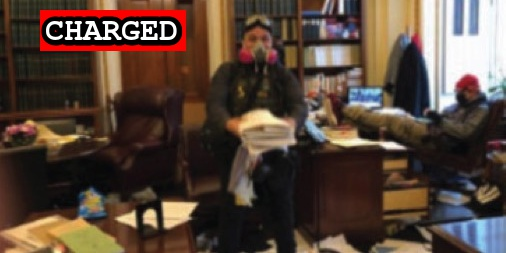
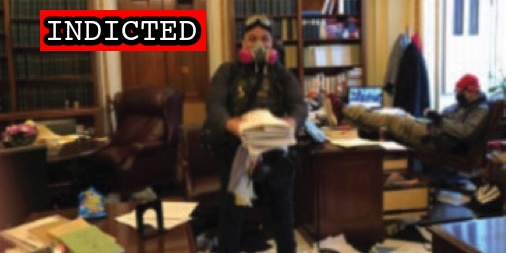
Latest import

Changed region(s): [[0.0593, 0.0277, 0.415, 0.2213]]

diff --git a/commands/suspect-import.ts b/commands/suspect-import.ts
@@ -103,6 +103,10 @@ const importGw = async (nameSet: Set<string>) => {
         nameText = "Zoyganeles, Athanasois";
       }
 
+      if (nameText.match(/Heneghan/)) {
+        nameText = "Heneghan, Jon";
+      }
+
       const [lastName, rest] = nameText
         .split(",")
         .map((chunk: string) =>
@@ -448,9 +452,6 @@ const linkType = (description: string, lastName?: string) => {
     case /Government's Motion to Modify Conditions of Release/.test(description):
       return "Government's Motion to Modify Conditions of Release";
 
-    case /Motion to Revoke Pretrial Release/.test(description):
-      return "Government's Motion to Revoke Pretrial guRelease";
-
     case /Detention Memo/.test(description):
     case /Government Detention Memorandum/.test(description):
     case /Memorandum in Support of Pretrial Detention/.test(description):
@@ -477,6 +478,8 @@ const linkType = (description: string, lastName?: string) => {
     case /Government Opposition to Motion for Conditional Release/.test(description):
     case /Government's Opposition to Defendant's Motion for Release/.test(description):
     case /Government Opposition to Defendant's Motion for Conditional Release/.test(description):
+    case /Government Opposition to Motion for Pretrial Release/.test(description):
+    case /Government Opposition to Defense Motion for Bail/.test(description):
       return "Government Opposition to Release";
 
     case /Opposition to Defendants Motion to Reconsider/.test(description):
@@ -530,6 +533,7 @@ const linkType = (description: string, lastName?: string) => {
     case /Defendant's Motion for Conditional Release Pending Trial/.test(description):
     case /Defense Motion to Set Bond and Conditions of Release/.test(description):
     case /Defense Memorandum in Support of Pretrial Release/.test(description):
+    case /Defense Motion for Bail/.test(description):
       return "Defense Motion for Release";
 
     case /Defense Memorandum in Support of Probationary Sentence/.test(description):

diff --git a/docs/_suspects/antionne-brodnax.md b/docs/_suspects/antionne-brodnax.md
@@ -34,25 +34,25 @@ published: true
 caseNumber: 1:21-cr-350
 videos:
 charges:
-  - code: 18 USC § 1752(a)(1)
-    title: Entering a restricted building or grounds
-    url: https://www.law.cornell.edu/uscode/text/18/1752
-    felony: false
-  - code: 18 USC § 1752(a)(2)
-    title: Disorderly and disruptive conduct in a restricted building or grounds
-    url: https://www.law.cornell.edu/uscode/text/18/1752
-    felony: false
-  - code: 18 USC § 5104(e)(2)(D)
-    title: Disorderly Conduct in a Capitol Building
-    url: https://www.law.cornell.edu/uscode/text/40/5104
-    felony: false
-  - code: 18 USC § 5104(e)(2)(G)
-    title: Parading, demonstrating or picketing in a Capitol building
-    url: https://www.law.cornell.edu/uscode/text/40/5104
-    felony: false
+- code: 18 USC § 1752(a)(1)
+  title: Entering a restricted building or grounds
+  url: https://www.law.cornell.edu/uscode/text/18/1752
+  felony: false
+- code: 18 USC § 1752(a)(2)
+  title: Disorderly and disruptive conduct in a restricted building or grounds
+  url: https://www.law.cornell.edu/uscode/text/18/1752
+  felony: false
+- code: 18 USC § 5104(e)(2)(D)
+  title: Disorderly Conduct in a Capitol Building
+  url: https://www.law.cornell.edu/uscode/text/40/5104
+  felony: false
+- code: 18 USC § 5104(e)(2)(G)
+  title: Parading, demonstrating or picketing in a Capitol building
+  url: https://www.law.cornell.edu/uscode/text/40/5104
+  felony: false
 sentence:
 ---
-
 - [News Report](https://www.wric.com/news/crime/man-arrested-in-sandston-for-entering-u-s-capitol-building-during-jan-6-riot/)
 - [Statement of Facts](https://www.justice.gov/usao-dc/case-multi-defendant/file/1378461/download)
 - [Information](https://www.justice.gov/usao-dc/case-multi-defendant/file/1394471/download)
+- [Sentencing Memo](https://extremism.gwu.edu/sites/g/files/zaxdzs2191/f/Antionne%20Brodnax%20Government%20Sentencing%20Memorandum.pdf)

diff --git a/docs/_suspects/ethan-nordean.md b/docs/_suspects/ethan-nordean.md
@@ -33,11 +33,12 @@ layout: suspect
 published: true
 caseNumber: 1:21-cr-175
 videos:
-- title: 21CR175_00001495_PARTIAL.mp4 (0:03:00)
-  url: https://propublica-data-j6cases-videos.s3.us-east-1.amazonaws.com/8a8f0be0ce2b013960702cde48001122.mp4
+  - title: 21CR175_00001495_PARTIAL.mp4 (0:03:00)
+    url: https://propublica-data-j6cases-videos.s3.us-east-1.amazonaws.com/8a8f0be0ce2b013960702cde48001122.mp4
 charges:
 sentence:
 ---
+
 - [News Report](https://nytimes.com/live/2021/02/03/us/biden-administration#federal-officials-arrested-another-leader-of-the-proud-boys-ethan-nordean-in-the-capitol-riot-investigation)
 - [Statement of Facts](https://www.justice.gov/opa/page/file/1364196/download)
 - [DOJ Press Release](https://www.justice.gov/usao-dc/pr/member-proud-boys-charged-obstructing-official-proceeding-other-charges-related-jan-6)
@@ -49,4 +50,3 @@ sentence:
 - [Defendant's Notice of Government's Violation of Due Process Protections Act](https://extremism.gwu.edu/sites/g/files/zaxdzs2191/f/Ethan%20Nordean%20Notice.pdf)
 - [Government Opposition to to Lift Stay on Release Order](https://extremism.gwu.edu/sites/g/files/zaxdzs2191/f/Ethan%20Nordean%20Government%20Opposition%20to%20Defendants%20Motion%20to%20Lift%20Stay%20on%20Release%20Order.pdf)
 - [Government's Motion to Revoke Pretrial Release](https://extremism.gwu.edu/sites/g/files/zaxdzs2191/f/Ethan%20Nordean%20Govt%20Motion%20to%20Revoke%20Pretrial%20Release.pdf)
-- [Government's Motion to Revoke Pretrial guRelease](https://extremism.gwu.edu/sites/g/files/zaxdzs2191/f/Ethan%20Nordean%20Govt%20Motion%20to%20Revoke%20Pretrial%20Release.pdf)

diff --git a/docs/_suspects/adam-johnson.md b/docs/_suspects/adam-johnson.md
@@ -34,16 +34,16 @@ published: true
 caseNumber: 1:21-mj-20
 videos:
 charges:
-  - code: 18 USC § 1752(a)(1)
-    title: Entering a restricted building or grounds
-    url: https://www.law.cornell.edu/uscode/text/18/1752
-    felony: false
+- code: 18 USC § 1752(a)(1)
+  title: Entering a restricted building or grounds
+  url: https://www.law.cornell.edu/uscode/text/18/1752
+  felony: false
 sentence:
 ---
-
 - [News Report](https://www.msn.com/en-us/news/world/adam-johnson-spotted-with-pelosis-lectern-stormed-capitol-to-witness-history-e2-80-94lawyers/ar-BB1cH0ZJ)
 - [DOJ Press Release](https://www.justice.gov/usao-dc/pr/three-men-charged-connection-events-us-capitol)
 - [Information](https://extremism.gwu.edu/sites/g/files/zaxdzs2191/f/Andrew%20Johnson%20Information.pdf)
 - [Statement of Facts](https://www.justice.gov/usao-dc/case-multi-defendant/file/1452271/download)
 - [Complaint](https://www.justice.gov/opa/page/file/1355516/download)
 - [Plea Agreement](https://www.justice.gov/usao-dc/case-multi-defendant/file/1452266/download)
+- [Sentencing Memo](https://extremism.gwu.edu/sites/g/files/zaxdzs2191/f/Adam%20Johnson%20Defense%20Sentencing%20Memorandum%20and%20Motion%20for%20Downward%20Variance.pdf)

diff --git a/docs/_suspects/dominick-madden.md b/docs/_suspects/dominick-madden.md
@@ -34,16 +34,16 @@ published: true
 caseNumber: "1:21-cr-00055"
 videos:
 charges:
-  - code: 18 USC § 5104(e)(2)(G)
-    title: Parading, demonstrating or picketing in a Capitol building
-    url: https://www.law.cornell.edu/uscode/text/40/5104
-    felony: false
+- code: 18 USC § 5104(e)(2)(G)
+  title: Parading, demonstrating or picketing in a Capitol building
+  url: https://www.law.cornell.edu/uscode/text/40/5104
+  felony: false
 sentence:
 ---
-
 - [News Report](https://brooklyneagle.com/articles/2021/01/22/brooklyn-sanitation-worker-arrested-after-feds-idd-him-as-part-of-capitol-mob/)
 - [FBI Raid](https://abc7ny.com/local-dc-riot-arrests-nyc-sanitation-worker-arrested/9900913/)
 - [Statement of Facts](https://www.justice.gov/opa/page/file/1358876/download)
 - [Complaint](https://www.justice.gov/opa/page/file/1359536/download)
 - [Information](https://extremism.gwu.edu/sites/g/files/zaxdzs2191/f/Domenick%20Madden%20Information.pdf)
 - [Plea Agreement](https://extremism.gwu.edu/sites/g/files/zaxdzs2191/f/Domenick%20Madden%20Plea%20Agreement.pdf)
+- [Sentencing Memo](https://extremism.gwu.edu/sites/g/files/zaxdzs2191/f/Domenick%20Madden%20Defense%20Sentencing%20Memorandum.pdf)

diff --git a/docs/_suspects/jeffrey-smith.md b/docs/_suspects/jeffrey-smith.md
@@ -34,16 +34,16 @@ published: true
 caseNumber: 1:21-cr-290
 videos:
 charges:
-  - code: 18 USC § 5104(e)(2)(G)
-    title: Parading, demonstrating or picketing in a Capitol building
-    url: https://www.law.cornell.edu/uscode/text/40/5104
-    felony: false
+- code: 18 USC § 5104(e)(2)(G)
+  title: Parading, demonstrating or picketing in a Capitol building
+  url: https://www.law.cornell.edu/uscode/text/40/5104
+  felony: false
 sentence:
 ---
-
 - [News Report](https://www.cbs8.com/article/news/politics/coronado-arrest-capitol-riot/509-740c83a7-f93e-4283-87da-d5a54005906b)
 - [Complaint](https://www.justice.gov/opa/page/file/1361426/download)
 - [Statement of Facts](https://www.justice.gov/usao-dc/case-multi-defendant/file/1445281/download)
 - [FBI Statement (Twitter)](https://twitter.com/FBISanDiego/status/1354835002513645571?s=20)
 - [Information](https://www.justice.gov/usao-dc/case-multi-defendant/file/1386296/download)
 - [Plea Agreement](https://www.justice.gov/usao-dc/case-multi-defendant/file/1445286/download)
+- [Sentencing Memo](https://extremism.gwu.edu/sites/g/files/zaxdzs2191/f/Jeffrey%20Alexander%20Smith%20Government%20Sentencing%20Memorandum.pdf)

diff --git a/docs/_suspects/erik-herrera.md b/docs/_suspects/erik-herrera.md
@@ -4,10 +4,10 @@ lastName: Herrera
 hashtag: ErikHerrera
 aka:
 residence: California
-status: Charged
+status: Indicted
 date: 2021-08-06
 charged: 2021-08-06
-indicted:
+indicted: 2021-10-06
 convicted:
 sentenced:
 dismissed:
@@ -25,7 +25,7 @@ courtroom:
 courthouse:
 raid:
 perpwalk:
-quote: 'I don’t have a monopoly on press badges. They’re on Amazon for like $8 ... No special permission to buy.'
+quote: "I don’t have a monopoly on press badges. They’re on Amazon for like $8 ... No special permission to buy."
 title: Erik Herrera charged on August 6, 2021
 description: Click for latest case details. Suspects innocent until proven guilty.
 author: seditiontrack
@@ -36,5 +36,7 @@ videos:
 charges:
 sentence:
 ---
+
 - [News Report](https://www.ocregister.com/2021/10/07/2-more-with-southern-california-ties-charged-in-jan-6-storming-of-u-s-capitol/)
 - [Complaint](https://extremism.gwu.edu/sites/g/files/zaxdzs2191/f/Erik%20Herrera%20Criminal%20Complaint.pdf)
+- [Indictment](https://extremism.gwu.edu/sites/g/files/zaxdzs2191/f/Erik%20Herrera%20Indictment.pdf)

diff --git a/docs/_suspects/daniel-goodwyn.md b/docs/_suspects/daniel-goodwyn.md
@@ -36,10 +36,10 @@ videos:
 charges:
 sentence:
 ---
+
 - [News Report](https://www.sfgate.com/crime/article/daniel-goodwyn-sf-proud-boys-capitol-arrests-15877697.php)
 - [Complaint](https://assets.documentcloud.org/documents/20456929/1-15-21-us-v-daniel-goodwyn-complaint-statement.pdf)
 - [Statement of Facts](https://www.justice.gov/opa/page/file/1362756/download)
 - [Indictment](https://www.justice.gov/usao-dc/case-multi-defendant/file/1377661/download)
 - [Motion to Revoke Pretrial Release](https://extremism.gwu.edu/sites/g/files/zaxdzs2191/f/Daniel%20Goodwyn%20Government%20Motion%20to%20Revoke%20Defendants%20Pretrial%20Release.pdf)
 - [Government's Motion to Revoke Pretrial Release](https://extremism.gwu.edu/sites/g/files/zaxdzs2191/f/Daniel%20Goodwyn%20Government%20Motion%20to%20Revoke%20Defendants%20Pretrial%20Release.pdf)
-- [Government's Motion to Revoke Pretrial guRelease](https://extremism.gwu.edu/sites/g/files/zaxdzs2191/f/Daniel%20Goodwyn%20Government%20Motion%20to%20Revoke%20Defendants%20Pretrial%20Release.pdf)

diff --git a/docs/_suspects/loruhamah-yazdani-isfehani.md b/docs/_suspects/loruhamah-yazdani-isfehani.md
@@ -1,0 +1,42 @@
+---
+name: Loruhamah Yazdani-Isfehani
+lastName: Yazdani-Isfehani
+hashtag:
+aka:
+residence: Ohio
+status: Charged
+date: 2022-02-18
+charged: 2022-02-18
+indicted:
+convicted:
+sentenced:
+dismissed:
+deceased:
+plea_hearing:
+sentencing:
+age:
+occupation:
+affiliations:
+jurisdiction: Federal
+image: /images/preview/loruhamah-yazdani-isfehani.jpg
+suspect: loruhamah-yazdani-isfehani.jpg
+booking:
+courtroom:
+courthouse:
+raid:
+perpwalk:
+quote:
+title: Loruhamah Yazdani-Isfehani charged on February 18th, 2022
+description: Click for latest case details. Suspects innocent until proven guilty.
+author: seditiontrack
+layout: suspect
+published: false
+caseNumber: 1:22-mj-33
+videos:
+charges:
+sentence:
+---
+
+- [News Report]()
+- [Complaint](https://www.justice.gov/usao-dc/case-multi-defendant/file/1477226/download)
+- [Statement of Facts](https://www.justice.gov/usao-dc/case-multi-defendant/file/1477231/download)

diff --git a/docs/_suspects/abigail-yazdani-isfehani.md b/docs/_suspects/abigail-yazdani-isfehani.md
@@ -1,0 +1,42 @@
+---
+name: Abigail Yazdani-Isfehani
+lastName: Yazdani-Isfehani
+hashtag:
+aka:
+residence: Ohio
+status: Charged
+date: 2022-02-18
+charged: 2022-02-18
+indicted:
+convicted:
+sentenced:
+dismissed:
+deceased:
+plea_hearing:
+sentencing:
+age:
+occupation:
+affiliations:
+jurisdiction: Federal
+image: /images/preview/abigail-yazdani-isfehani.jpg
+suspect: abigail-yazdani-isfehani.jpg
+booking:
+courtroom:
+courthouse:
+raid:
+perpwalk:
+quote:
+title: Abigail Yazdani-Isfehani charged on February 18th, 2022
+description: Click for latest case details. Suspects innocent until proven guilty.
+author: seditiontrack
+layout: suspect
+published: false
+caseNumber: 1:22-mj-33
+videos:
+charges:
+sentence:
+---
+
+- [News Report]()
+- [Complaint](https://www.justice.gov/usao-dc/case-multi-defendant/file/1477216/download)
+- [Statement of Facts](https://www.justice.gov/usao-dc/case-multi-defendant/file/1477221/download)

diff --git a/docs/_suspects/loammi-yazdani-isfehani.md b/docs/_suspects/loammi-yazdani-isfehani.md
@@ -1,0 +1,42 @@
+---
+name: Loammi Yazdani-Isfehani
+lastName: Yazdani-Isfehani
+hashtag:
+aka:
+residence: Ohio
+status: Charged
+date: 2022-02-18
+charged: 2022-02-18
+indicted:
+convicted:
+sentenced:
+dismissed:
+deceased:
+plea_hearing:
+sentencing:
+age:
+occupation:
+affiliations:
+jurisdiction: Federal
+image: /images/preview/loammi-yazdani-isfehani.jpg
+suspect: loammi-yazdani-isfehani.jpg
+booking:
+courtroom:
+courthouse:
+raid:
+perpwalk:
+quote:
+title: Loammi Yazdani-Isfehani charged on February 18th, 2022
+description: Click for latest case details. Suspects innocent until proven guilty.
+author: seditiontrack
+layout: suspect
+published: false
+caseNumber: 1:22-mj-33
+videos:
+charges:
+sentence:
+---
+
+- [News Report]()
+- [Complaint](https://www.justice.gov/usao-dc/case-multi-defendant/file/1477206/download)
+- [Statement of Facts](https://www.justice.gov/usao-dc/case-multi-defendant/file/1477211/download)

diff --git a/docs/_suspects/nicholes-lentz.md b/docs/_suspects/nicholes-lentz.md
@@ -34,14 +34,14 @@ published: true
 caseNumber: 1:21-mj-206
 videos:
 charges:
-  - code: 18 USC § 1752(a)(1)
-    title: Entering a restricted building or grounds
-    url: https://www.law.cornell.edu/uscode/text/18/1752
-    felony: false
+- code: 18 USC § 1752(a)(1)
+  title: Entering a restricted building or grounds
+  url: https://www.law.cornell.edu/uscode/text/18/1752
+  felony: false
 sentence:
 ---
-
 - [News Report](https://www.miamiherald.com/article249418810.html)
 - [Complaint](https://extremism.gwu.edu/sites/g/files/zaxdzs2191/f/Nicholes%20Lentz%20Criminal%20Complaint.pdf)
 - [Statement of Facts](https://www.justice.gov/usao-dc/case-multi-defendant/file/1476086/download)
 - [Plea Agreement](https://www.justice.gov/usao-dc/case-multi-defendant/file/1476081/download)
+- [Information](https://extremism.gwu.edu/sites/g/files/zaxdzs2191/f/Nicholes%20Lentz%20Information.pdf)
